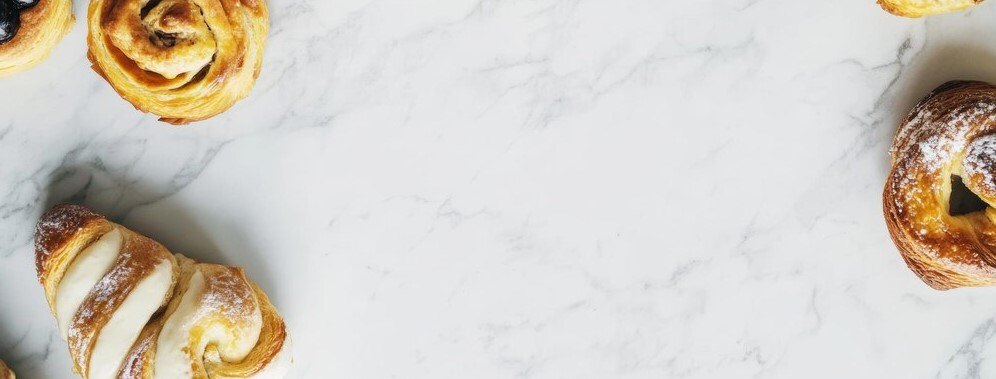
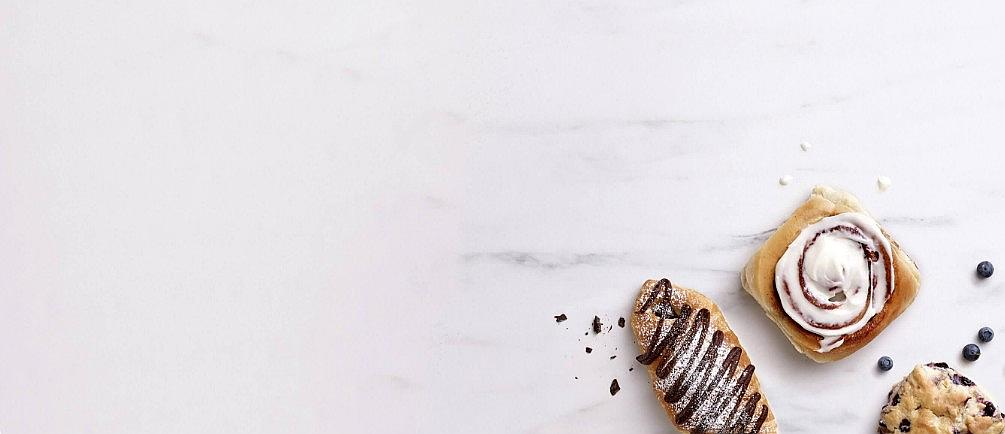
new section update

diff --git a/src/components/sec-4/Sec4rd.js b/src/components/sec-4/Sec4rd.js
@@ -1,5 +1,8 @@
 import React from "react";
 import "./sec4rd.css";
+import img01 from "./../../assets/01.jpg";
+import img02 from "./../../assets/02.jpg";
+import img03 from "./../../assets/03.jpg";
 
 const Sec4rd = () => {
   return (
@@ -17,13 +20,41 @@ const Sec4rd = () => {
             Separated they live in Bookmarksgrove.
           </p>
         </div>
+        <div className="col-md-2"></div>
       </div>
 
-      <div className="container">
-        <div className="row text-center">
-          <div className="col-md-4">45</div>
-          <div className="col-md-4">45</div>
-          <div className="col-md-4">45</div>
+      <div className="row five">
+        <div className="col-md-4">
+          <img src={img01} title="" />
+          <h5>Rainbow Vegetable Sandwich</h5>
+          <h6>Time: 15 - 20 Minutes | Serves: 1</h6>
+          <p>
+            $10.50 <span>$11.70</span>
+          </p>
+          <hr></hr>
+          <button className="">Order Now</button>
+        </div>
+
+        <div className="col-md-4">
+          <img src={img02} title="" />
+          <h5>Rainbow Vegetable Sandwich</h5>
+          <h6>Time: 15 - 20 Minutes | Serves: 1</h6>
+          <p>
+            $9.20 <span>$10.50</span>
+          </p>
+          <hr></hr>
+          <button className="">Order Now</button>
+        </div>
+
+        <div className="col-md-4">
+          <img src={img03} title="" />
+          <h5>Rainbow Vegetable Sandwich</h5>
+          <h6>Time: 15 - 20 Minutes | Serves: 1</h6>
+          <p>
+            $12.50 <span>$13.20</span>
+          </p>
+          <hr></hr>
+          <button className="">Order Now</button>
         </div>
       </div>
     </div>

diff --git a/src/components/sec-4/sec4rd.css b/src/components/sec-4/sec4rd.css
@@ -1,11 +1,38 @@
 .four h1 {
   color: #43121d;
-  margin-top: 80px;
+  margin-top: 90px;
   font-weight: bold;
   font-family: "Quicksand", serif;
 }
 
 .four p {
   color: #555;
-  margin-bottom: 80px;
+  margin-bottom: 90px;
+}
+.five {
+  font-family: "Quicksand", serif;
+}
+
+.five button {
+  background: #a82d49;
+  border: 3px solid #a82d49;
+  color: #fff;
+  font-size: 16px;
+  line-height: 20px;
+  font-weight: bold;
+  text-transform: capitalize;
+  padding: 11px 28px;
+  margin-left: 10px;
+}
+.five span {
+  text-decoration: line-through;
+  color: #999;
+  font-family: inherit;
+  font-weight: bold;
+  line-height: 1.1;
+}
+.five p {
+  font-size: 21px;
+  font-weight: bold;
+  color: #a82d49;
 }

diff --git a/src/components/sec-3/sec3rd.css b/src/components/sec-3/sec3rd.css
@@ -1,5 +1,7 @@
 .cont {
   background: url(./../../assets/001.jpg) center no-repeat;
+  background-size: cover;
+  min-height: 350px;
   font-family: "Quicksand", serif;
   padding: 50px;
 }
